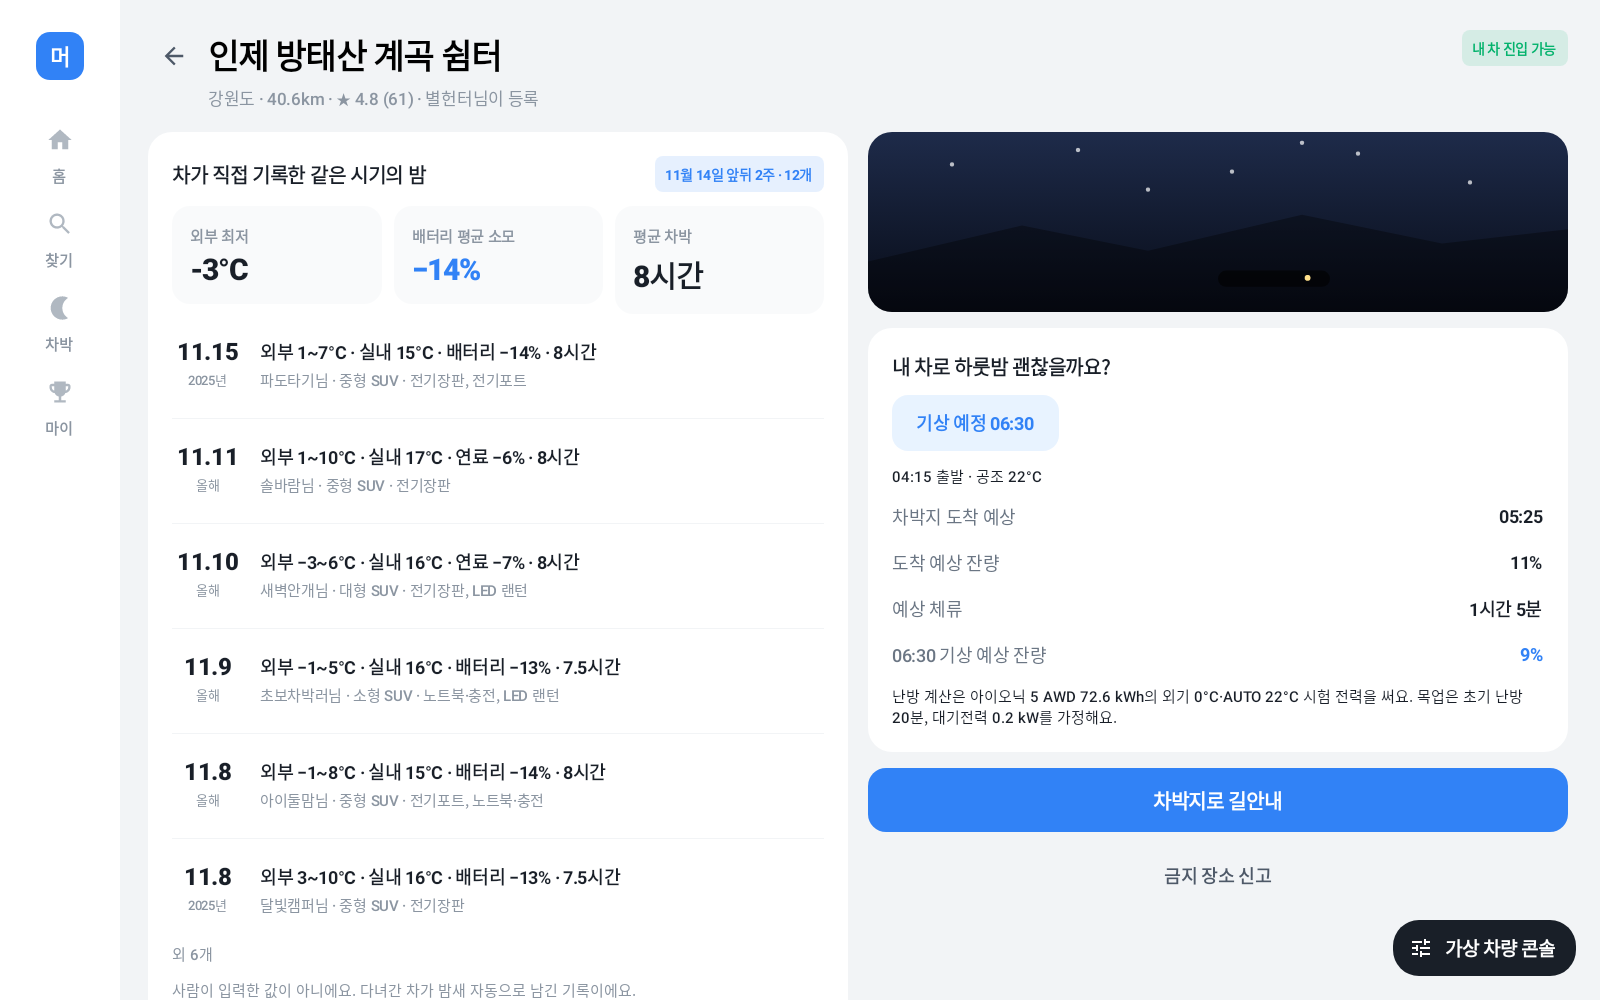
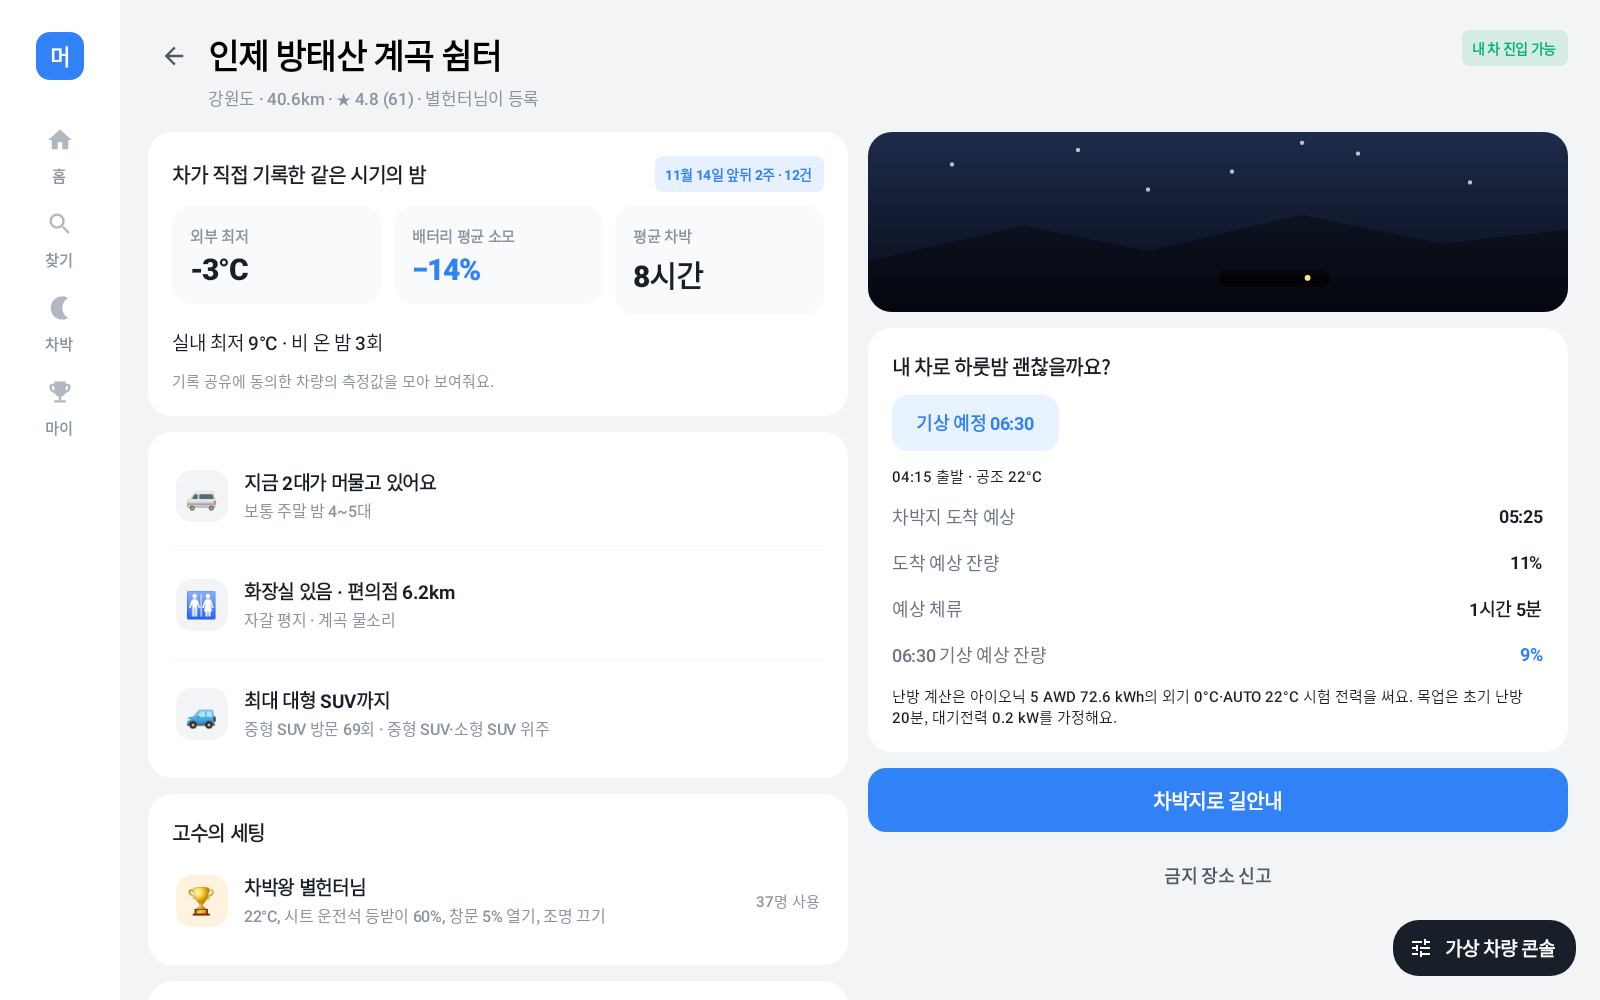
docs: 익명 통계와 차박 종료 화면을 최신 캡처로 교체

diff --git a/README.md b/README.md
@@ -30,7 +30,7 @@
 | 밤사이 기록 돌아보기 | 방문과 기여 기록 모아 보기 |
 | --- | --- |
 | ![차박 종료 리포트에 표시된 실내 온도와 배터리 소모, 예상과 실제 종료 잔량](docs/images/readme/review.png) | ![마이 화면에서 회원 등급과 뱃지별 진행도를 확인하는 모습](docs/images/readme/profile.png) |
-| 기록에 동의하고 측정값이 충분히 쌓이면 **어젯밤 리포트**가 생깁니다. 위 출발 예시와 별도로 진행한 이 시연은 약 20분 만에 마쳤습니다. 앱은 **기상 예상 45%**와 **종료 잔량 47%** 옆에 예정한 체류 시간과 실제 체류 시간이 다르다고 표시합니다. | 별점·후기·해시태그는 방문 인증 리뷰로 남깁니다. 차량 측정값은 스팟에 익명 통계로만 표시합니다. **마이**에서는 스팟 방문, 새 장소 등록, 리포트 작성으로 쌓인 뱃지와 등급을 확인합니다. |
+| 기록에 동의하고 측정값이 충분히 쌓이면 **어젯밤 리포트**가 생깁니다. 위 출발 예시와 별도로 진행한 이 시연은 약 20분 만에 마쳤습니다. 앱은 **기상 예상 38%**와 **종료 잔량 47%** 옆에 예정한 체류 시간과 실제 체류 시간이 다르다고 표시합니다. | 별점·후기·해시태그는 방문 인증 리뷰로 남깁니다. 차량 측정값은 스팟에 익명 통계로만 표시합니다. **마이**에서는 스팟 방문, 새 장소 등록, 리포트 작성으로 쌓인 뱃지와 등급을 확인합니다. |
 
 ## 새 스팟 등록해 보기
 
